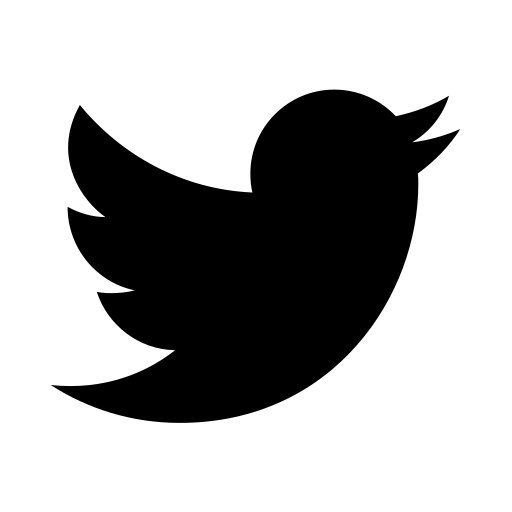
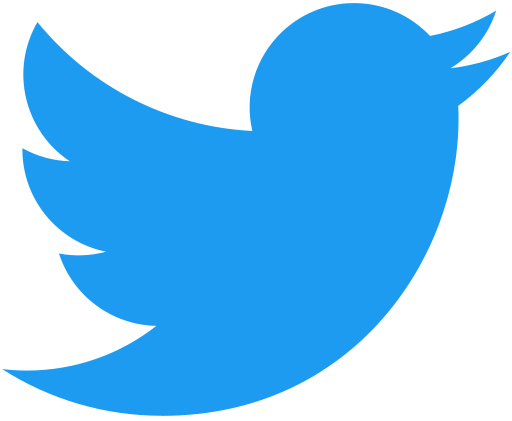
button colour changed

diff --git a/src/components/Buttons.jsx b/src/components/Buttons.jsx
@@ -13,8 +13,8 @@ export default function Buttons() {
           target="_blank"
           rel="noreferrer"
         >
-          <button className=" m-4 bg-[#00AAEC] px-4 py-2 border flex gap-2 border-[#00AAEC] rounded-lg text-white font-bold hover:border-slate-400 hover:text-slate-900 hover:shadow transition duration-150 text-center items-center">
-            <img className="w-6 h-" src={twitter} loading="lazy" alt="Twitt" />
+          <button className=" m-4 bg-white px-4 py-2 border flex gap-2  border-slate-200 rounded-lg text-slate-950 font-bold hover:border-slate-400 hover:text-[#179CF0] hover:shadow transition duration-150 text-center items-center">
+            <img className="w-6" src={twitter} loading="lazy" alt="Twitt" />
             <span className="pt-0.5">Twitter</span>
           </button>
         </a>
@@ -24,12 +24,7 @@ export default function Buttons() {
           rel="noreferrer"
         >
           <button className=" m-4 font-bold  bg-white px-4 py-2 border flex gap-2 border-slate-200 rounded-lg text-slate-950 hover:border-slate-400 hover:text-[#007EBB] hover:shadow transition duration-150 text-center items-center">
-            <img
-              className="w-6 h-"
-              src={linkedin}
-              loading="lazy"
-              alt="Linkedin"
-            />
+            <img className="w-6" src={linkedin} loading="lazy" alt="Linkedin" />
             <span className="pt-0.5">Linkedin</span>
           </button>
         </a>
